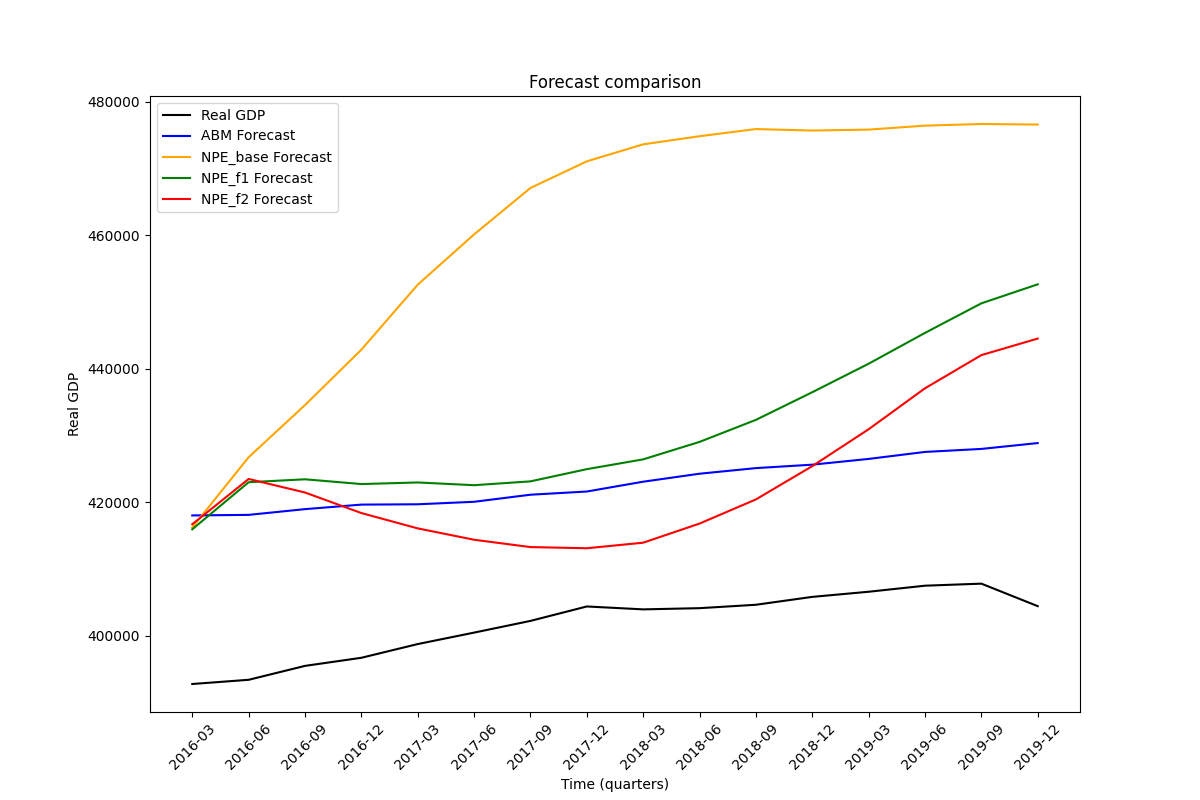
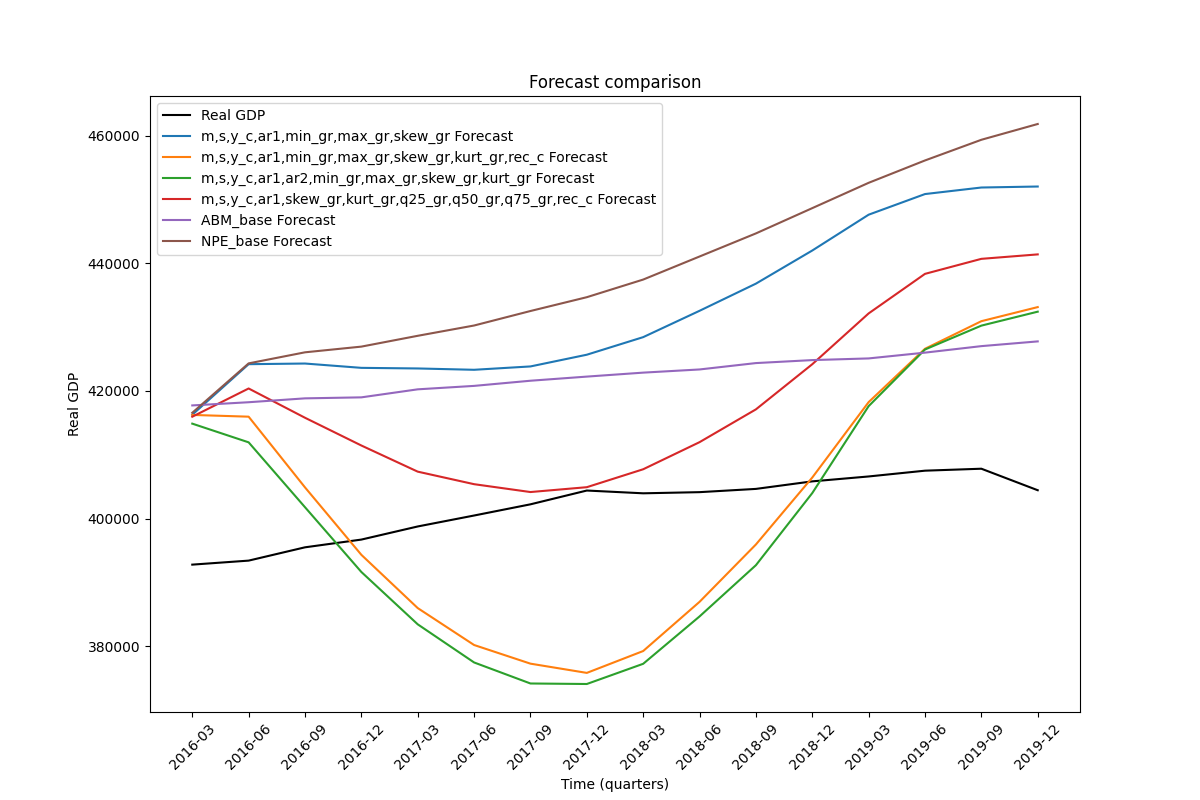
rolling rsmfes

diff --git a/generator.py b/generator.py
@@ -22,7 +22,6 @@ import numpy as np
 import matplotlib.pyplot as plt
 import pandas as pd
 
-
 def rep_parameters(parameters, parameters_to_calibrate, draw):
     sim_paramerters = parameters.copy()
     for param, value in zip(parameters_to_calibrate, draw.tolist()):
@@ -37,37 +36,6 @@ def run_monte_carlo(parameters, initial_conditions, T, num_simulations):
     data = jl.run_monte_carlo(parameters, initial_conditions, T, num_simulations)
     data = np.mean(data, axis=0) # average across simulations
     return np.array(data)
-
-# def findar_p (times_series, p):
-#     target = times_series[p:]
-#     lagged = np.array([times_series[i:-(p - i)] for i in range(p)]).T
-#     ones = np.ones((lagged.shape[0], 1))
-#     lagged = np.hstack((ones, lagged))
-#     ols = np.linalg.lstsq(lagged, target, rcond=None)
-#     return ols[0]
-
-# def compute_statistics (sim_out):
-#     # compute summary statistics from the simulated data
-#     # for example, we can compute the mean and standard deviation of real GDP
-#     growth_rates = np.diff(np.log(sim_out))
-
-#     mean_gdp = np.mean(sim_out)
-#     mean_gdprowth = np.mean(growth_rates)
-
-#     std_gdp = np.std(sim_out)
-#     std_gdprowth = np.std(growth_rates)
-
-#     ### yearly correlation y_t and y_t-4
-#     yearly_corr = np.corrcoef(growth_rates[:-4], growth_rates[4:])[0, 1]
-#     ### AR(1) coefficient of real GDP
-#     ar1_coeff = findar_p(growth_rates, 1)[1]
-#     ar2_coeff = findar_p(growth_rates, 2)[2]
-
-#     mini, maxi = np.min(growth_rates), np.max(growth_rates)
-    
-#     skewness_gdp = np.mean((growth_rates - mean_gdprowth)**3) / std_gdprowth**3
-#     return np.array([mean_gdprowth, std_gdprowth, yearly_corr, ar1_coeff, ar2_coeff, mini, maxi, skewness_gdp])
-
 
 ### initial calibration
 initial_calibration = datetime(2010, 3, 31)
@@ -147,95 +115,3 @@ if "prior_check" in argv:
     plt.ylabel("Real GDP")
     plt.savefig(f"pngs/prior_check_n{n_histories}_p{len(parameters_to_calibrate)}.png")
     plt.show()
-    plt.clf()
-
-if "gen" in argv:
-    print("NPE data generation completed. Exiting.")
-    exit()
-
-### NPE training
-npe = NPE(prior=priors)
-npe = npe.append_simulations(priors_samples, torch.tensor(npe_x, dtype=torch.float32))
-npe.train()
-
-posterior = npe.build_posterior()
-print()
-
-observed_series = df[df["date"] <= final_calibration]
-realized_future = df[df["date"] > final_calibration]
-
-assert len(observed_series) == T_hist + 1
-assert len(realized_future) == T_forecast
-
-forecast_statistic = torch.tensor(compute_statistics(observed_series["real"].values))
-
-if "posterior_check" in argv:
-    pass
-
-if "sbc" in argv:
-    num_sbc_samples = 10
-    num_sbc_samples = 10
-    thetas = priors.sample((num_sbc_samples,))
-    params = [rep_parameters(final_params, parameters_to_calibrate, theta) for theta in thetas]
-    xs = [run_monte_carlo(param, final_initial, T_forecast, num_simulations=10) for param in params]
-    stats = [compute_statistics(x) for x in xs]
-    stats = torch.tensor(stats, dtype=torch.float32)
-    sbc_results = run_sbc(
-        posterior=posterior,
-        thetas=thetas,
-        xs = stats,
-        num_posterior_samples=100
-    )
-
-if "pairplot" in argv:
-
-    _ = pairplot(
-        posterior.sample((1000,), x = torch.tensor(forecast_statistic, dtype=torch.float32)),
-        points=np.array([final_params[param] for param in parameters_to_calibrate])[None, :],
-        labels=parameters_to_calibrate,
-        limits = priors_bounds,
-        title = "Pairplot of the posterior samples with calibrated values"
-    )
-    plt.savefig(f"pngs/pairplot_n{n_histories}_p{len(parameters_to_calibrate)}.png")
-    plt.show()
-    plt.clf()
-
-if "post_check" in argv:
-    samples = posterior.sample((100, ), x = torch.tensor(npe_x, dtype=torch.float32))
-    plt.figure(figsize=(12, 8))
-    for i, sample in enumerate(samples):
-        sim_parameters = rep_parameters(hist_params, parameters_to_calibrate, sample)
-        sim_initial = hist_initial
-        sim_out = run_monte_carlo(sim_parameters, sim_initial, T_hist, num_simulations=15)
-        plt.plot(sim_out, alpha=0.2, color="green")
-    plt.title("Simulated trajectories from the posterior")
-    plt.xlabel("Time (quarters)")
-    plt.ylabel("Real GDP")
-    plt.savefig(f"pngs/posterior_check_n{n_histories}_p{len(parameters_to_calibrate)}.png")
-    plt.show()
-    plt.clf()
-
-
-abm_forecast = run_monte_carlo(final_params, final_initial, T_forecast, num_simulations=100)[1:]
-
-npe_forecast_params = posterior.sample((1000, ), x = forecast_statistic).mean(dim= 0)
-npe_forecast_params = rep_parameters(final_params, parameters_to_calibrate, npe_forecast_params)
-npe_forecast = run_monte_carlo(npe_forecast_params, final_initial, T_forecast, num_simulations=100)[1:]
-
-RMSFE_abm = np.sqrt(np.mean((abm_forecast - realized_future["real"].values)**2))
-RMSFE_npe = np.sqrt(np.mean((npe_forecast - realized_future["real"].values)**2))
-
-print(f"RMSFE of ABM forecast: {RMSFE_abm}")
-print(f"RMSFE of NPE forecast: {RMSFE_npe}")
-
-plt.figure(figsize=(12, 8))
-plt.plot(range(1, T_forecast + 1), realized_future["real"], label="Real GDP", color="black")
-plt.plot(range(1, T_forecast + 1), abm_forecast, label="ABM Forecast", color="blue")
-plt.plot(range(1, T_forecast + 1), npe_forecast, label="NPE Forecast", color="orange")
-plt.xticks(range(1, T_forecast + 1), realized_future["date"].dt.strftime("%Y-%m").values, rotation=45)
-plt.title("Forecast comparison")
-plt.xlabel("Time (quarters)")
-plt.ylabel("Real GDP")
-plt.legend()
-plt.savefig(f"pngs/forecast_comparison_n{n_histories}_p{len(parameters_to_calibrate)}.png")
-plt.show()

diff --git a/analysis.py b/analysis.py
@@ -123,6 +123,10 @@ def load_data(file_path):
     if not "npe_x" in data.files:
         print("Warning: 'npe_x' not found in data file. It will be set to None.")
         data["npe_x"] = None
+    print("Parameters: ")
+    for param, value in zip(data["parameters_to_calibrate"], data["bounds"]):
+        print(f"{param}: {value}")
+
     return data["priors_samples"], data["npe_x"], data["raw"], data["parameters_to_calibrate"], data["bounds"]
 
 data_folder = path.join(getcwd(), "data")
@@ -234,11 +238,14 @@ def forecast (posterior, observed_series, final_params, final_initial, stat_keys
     npe_forecast = run_monte_carlo(npe_forecast_params, final_initial, T_forecast, num_simulations=100)[1:]
     return npe_forecast
 
-def plot_forecasts (forecasts : dict[str, np.ndarray], realized_future, final_calibration, date_forecast, final_params, parameters_to_calibrate, bounds):
+def plot_forecasts (forecasts : dict[str, np.ndarray], realized_future, parameters_to_calibrate, bounds):
     plt.figure(figsize=(12, 8))
     plt.plot(range(1, T_forecast + 1), realized_future["real"], label="Real GDP", color="black")
+    rolling_rsmfes = {}
     for key, forecast in forecasts.items():
-        print(f"RMSFE of {key} forecast: {compute_rmsfe(forecast, realized_future)}")
+        rmsfe = compute_rmsfes(forecast, realized_future["real"].values)
+        rolling_rsmfes[key] = rmsfe
+        print(f"RMSFE of {key} forecast: {rmsfe[-1]:.4f}")
         plt.plot(range(1, T_forecast + 1), forecast, label=f"{key} Forecast")
     plt.xticks(range(1, T_forecast + 1), realized_future["date"].dt.strftime("%Y-%m").values, rotation=45)
     plt.title("Forecast comparison")
@@ -247,40 +254,34 @@ def plot_forecasts (forecasts : dict[str, np.ndarray], realized_future, final_ca
     plt.legend()
     plt.savefig(f"pngs/forecast_comparison_n{n_hist}_p{', '.join(parameters_to_calibrate)}_bounds{', '.join(str(b) for b in bounds)}.png")
     plt.show()
+    return rolling_rsmfes
 
-def compute_rmsfe (forecast, realized_future):
-    return np.sqrt(np.mean((forecast - realized_future["real"].values)**2))
+def compute_rmsfes (forecast, realized):
+    rolling_differences = [(forecast[:i] - realized[:i])**2 for i in range(1, len(forecast) + 1)]
+    means = np.array(list(map(np.mean, rolling_differences)))
+    return np.sqrt(means)
 
 ### checks
 s1 = ["mean", "std", "yearly_corr", "ar1_coeff", "min", "max", "skewness"]
+s1_prime = ["mean", "std", "yearly_corr", "ar1_coeff", "min", "max", "skewness", "kurtosis", "recession_count"]
 s2 = ["mean", "std", "yearly_corr", "ar1_coeff", "ar2_coeff", "min", "max", "skewness", "kurtosis"]
 s3 = ["mean", "std", "yearly_corr", "ar1_coeff", "skewness", "kurtosis", "quantile_25", "quantile_50", "quantile_75", "recession_count"]
 
+versions = [s1]
 
-p1 = train_npe_statistics(priors, priors_samples, raw, s1)
-p2 = train_npe_statistics(priors, priors_samples, raw, s2)
-p3 = train_npe_statistics(priors, priors_samples, raw, s3)
-
-p1_forecast = forecast(p1, observed_series["real"].values, final_params, final_initial, s1)
-p2_forecast = forecast(p2, observed_series["real"].values, final_params, final_initial, s2)
-p3_forecast = forecast(p3, observed_series["real"].values, final_params, final_initial, s3)
-
-forecast_statistic = torch.tensor(compute_statistics(observed_series["real"].values))
+ps = [train_npe_statistics(priors, priors_samples, raw, s) for s in versions]
+forecasts = {",".join(to_short_names(s)): forecast(p, observed_series["real"].values, final_params, final_initial, s) for p, s in zip(ps, versions)}
 
 abm_forecast = run_monte_carlo(final_params, final_initial, T_forecast, num_simulations=100)[1:]
+forecasts["ABM_base"] = abm_forecast
 
 if npe_x_base is not None:
+    forecast_statistic = torch.tensor(compute_statistics(observed_series["real"].values))
     npe_forecast_params = posterior.sample((1000, ), x = forecast_statistic).mean(dim= 0)
     npe_forecast_params = rep_parameters(final_params, parameters_to_calibrate, npe_forecast_params)
     npe_forecast = run_monte_carlo(npe_forecast_params, final_initial, T_forecast, num_simulations=100)[1:]
 
-forecasts = {
-    "ABM": abm_forecast,
-    "NPE_base": npe_forecast,
-    ",".join(to_short_names(s1)): p1_forecast,
-    ",".join(to_short_names(s2)): p2_forecast,
-    ",".join(to_short_names(s3)): p3_forecast
-}
+if npe_x_base is not None:
+    forecasts["NPE_base"] = npe_forecast
 
-
-plot_forecasts(forecasts, realized_future, final_calibration, date_forecast, final_params, parameters_to_calibrate, bounds)
+rolling_rsmfes = plot_forecasts(forecasts, realized_future, parameters_to_calibrate, bounds)
